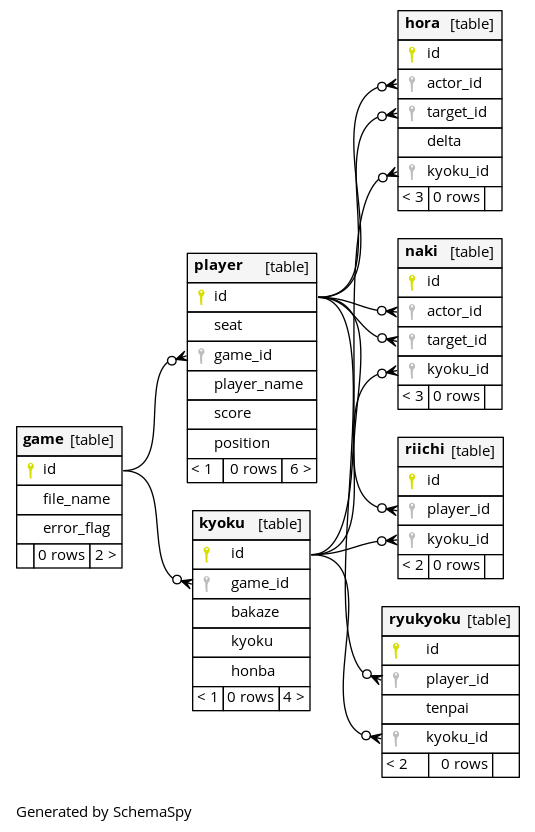
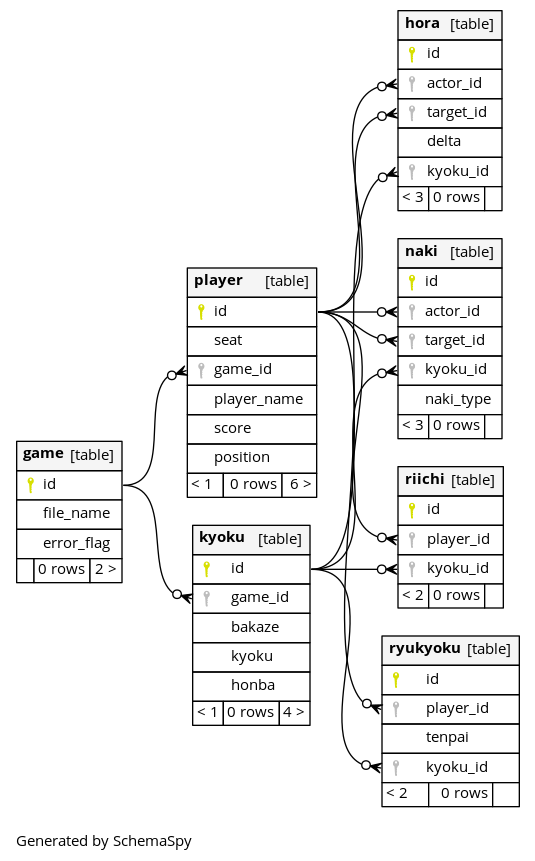
naki_typeを追加

diff --git a/mjai/src/analyze.rb b/mjai/src/analyze.rb
@@ -32,7 +32,7 @@ class Analyzer
     @connection.exec("UPDATE player SET score = #{score}, position = #{position} WHERE id = #{@player_id[seat]}")
   end
 
-  def insert_round(bakaze, kyoku, honba)
+  def insert_kyoku(bakaze, kyoku, honba)
     @connection.exec("INSERT INTO kyoku(game_id,bakaze,kyoku,honba) VALUES (#{@game_id},'#{bakaze}',#{kyoku},#{honba})")
     result = @connection.exec("SELECT LASTVAL()")
     @kyoku_id = result[0]["lastval"]
@@ -42,8 +42,8 @@ class Analyzer
     @connection.exec("INSERT INTO riichi(player_id,kyoku_id) VALUES (#{@player_id[actor]},#{@kyoku_id})")
   end
 
-  def insert_naki(actor, target)
-    @connection.exec("INSERT INTO naki(actor_id,target_id,kyoku_id) VALUES (#{@player_id[actor]},#{@player_id[target]},#{@kyoku_id})")
+  def insert_naki(actor, target, naki_type)
+    @connection.exec("INSERT INTO naki(actor_id,target_id,kyoku_id,naki_type) VALUES (#{@player_id[actor]},#{@player_id[target]},#{@kyoku_id},'#{naki_type}')")
   end
 
   def insert_winning(actor, target, delta)
@@ -63,7 +63,7 @@ class Analyzer
   end
 
   def start_kyoku(message)
-    insert_round(message["bakaze"], message["kyoku"], message["honba"])
+    insert_kyoku(message["bakaze"], message["kyoku"], message["honba"])
   end
 
   def reach(message)
@@ -71,19 +71,19 @@ class Analyzer
   end
 
   def pon(message)
-    insert_naki(message["actor"], message["target"])
+    insert_naki(message["actor"], message["target"], "pon")
   end
 
   def chi(message)
-    insert_naki(message["actor"], message["target"])
+    insert_naki(message["actor"], message["target"], "chi")
   end
 
   def daiminkan(message)
-    insert_naki(message["actor"], message["target"])
+    insert_naki(message["actor"], message["target"], "daiminkan")
   end
 
   def hora(message)
-    insert_winning(message["actor"], message["target"], message['deltas'][message['actor']])
+    insert_winning(message["actor"], message["target"], message["deltas"][message["actor"]])
   end
 
   def ryukyoku(message)
@@ -115,14 +115,14 @@ class Analyzer
         end
       end
 
-      if message['type'] != 'end_game'
+      if message["type"] != "end_game"
         update_game()
       end
     end
   end
 end
 
-connection = PG::connect(host: 'db', user: 'user', password: 'password', dbname: 'mjai_db')
+connection = PG::connect(host: "db", user: "user", password: "password", dbname: "mjai_db")
 file_name = Dir.glob("/log_dir/*.mjson").max_by{|f| File.mtime(f)}
 analyzer = Analyzer.new(connection, file_name)
 analyzer.execute()
